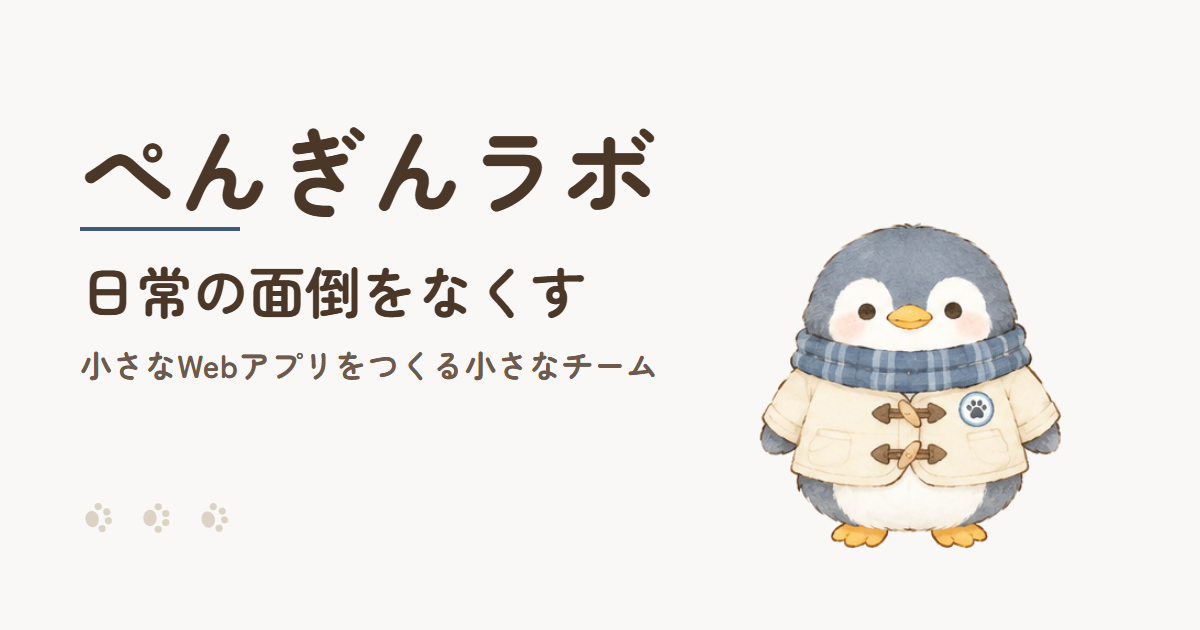
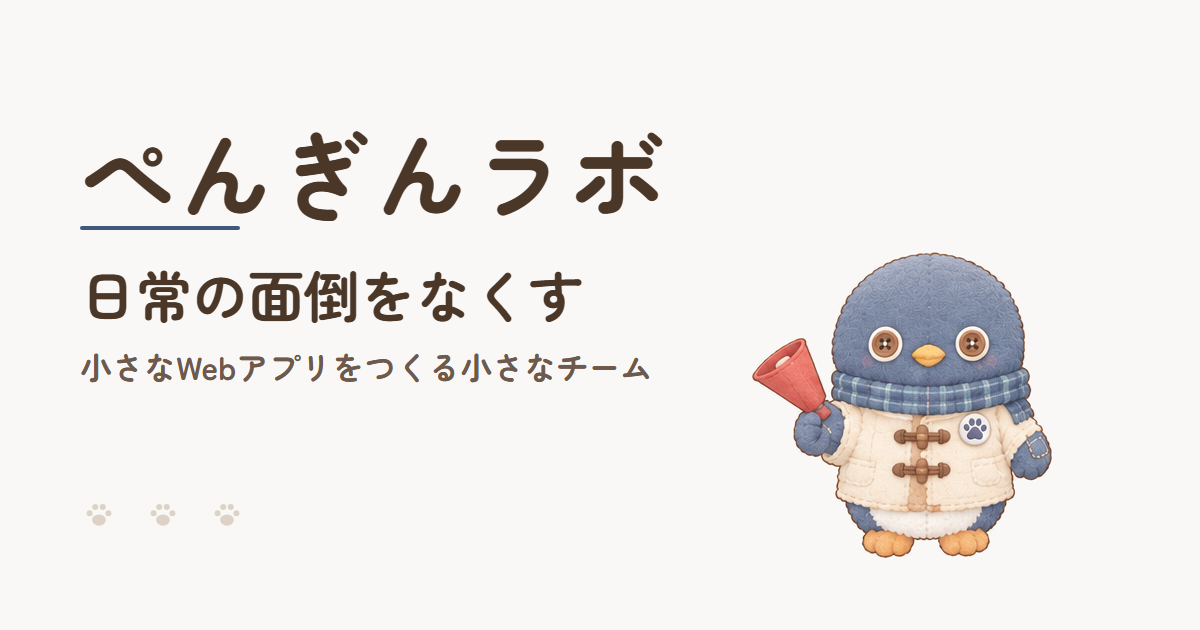
feat: OGP画像を v3 のペンタに差し替え、作成スクリプトを追加

diff --git a/scripts/make_ogp.py b/scripts/make_ogp.py
@@ -1,0 +1,93 @@
+"""OGP 画像（public/ogp.png, 1200x630）を作る。ローカルで手動実行する（CI では動かさない）。
+
+使い方:
+    python scripts/make_ogp.py <元画像のパス> public/ogp.png
+
+構図は docs/design/website-design.md 6章。左に文字、右にペンタ。
+ペンタは crop_members.py と同じ処理で元画像から切り出す（拡大しない）。
+HTML を一時フォルダに作り、ヘッドレスの Chrome / Edge でスクリーンショットを撮る。
+新しいパッケージは不要（Pillow と、入っているブラウザだけ）。
+"""
+import subprocess
+import sys
+import tempfile
+from pathlib import Path
+
+from PIL import Image
+
+sys.path.insert(0, str(Path(__file__).parent))
+import crop_members as cm  # noqa: E402
+
+ROOT = Path(__file__).resolve().parent.parent
+FONTS = ROOT / "node_modules/@fontsource/zen-maru-gothic/files"
+BROWSERS = [
+    r"C:\Program Files\Google\Chrome\Application\chrome.exe",
+    r"C:\Program Files (x86)\Microsoft\Edge\Application\msedge.exe",
+]
+W, H = 1200, 630
+MAX_BYTES = 300 * 1024
+
+HTML = """<!doctype html><meta charset="utf-8"><style>
+@font-face{font-family:Z;font-weight:700;src:url('%(f)s/zen-maru-gothic-japanese-700-normal.woff2')}
+@font-face{font-family:ZL;font-weight:700;src:url('%(f)s/zen-maru-gothic-latin-700-normal.woff2')}
+html,body{margin:0;width:1200px;height:630px;background:#f9f8f7;color:#4a3728;font-family:ZL,Z,sans-serif;font-weight:700;overflow:hidden}
+.t1{position:absolute;left:80px;top:112px;font-size:96px;line-height:120px;letter-spacing:.02em}
+.rule{position:absolute;left:80px;top:226px;width:160px;height:4px;background:#3f5a78;border-radius:2px}
+.t2{position:absolute;left:80px;top:258px;font-size:56px;line-height:72px}
+.t3{position:absolute;left:80px;top:344px;font-size:32px;line-height:44px;color:#6e5a4c}
+.paws{position:absolute;left:84px;top:500px;display:flex;gap:34px;color:#ddd3c4}
+img{position:absolute;right:%(r)dpx;bottom:%(b)dpx}
+</style>
+<div class="t1">ぺんぎんラボ</div><div class="rule"></div>
+<div class="t2">日常の面倒をなくす</div>
+<div class="t3">小さなWebアプリをつくる小さなチーム</div>
+<div class="paws">%(paws)s</div>
+<img src="%(img)s">
+"""
+PAW = ('<svg width="30" height="30" viewBox="0 0 24 24"><g fill="currentColor"><ellipse cx="12" cy="16" rx="5.5" ry="4.5"/>'
+       '<circle cx="4.5" cy="10.5" r="2.4"/><circle cx="9" cy="5.5" r="2.4"/><circle cx="15" cy="5.5" r="2.4"/>'
+       '<circle cx="19.5" cy="10.5" r="2.4"/></g></svg>')
+
+
+def crop_penta(sheet: Image.Image) -> Image.Image:
+    ref = cm.paper_color(sheet)
+    info = cm.locate(sheet, ref)["penta"]
+    card = cm.make_card(sheet, ref, info)
+    x0, y0, x1, y1 = info["bbox"]
+    # 400 角のカードから、キャラの範囲だけ（拡大なし）を取り出す
+    left = (cm.SIZE - (x1 - x0)) // 2
+    top = cm.SIZE - cm.FOOT_MARGIN - (y1 - y0)
+    return card.crop((left - 8, top - 8, left + (x1 - x0) + 8, top + (y1 - y0) + 8))
+
+
+def main() -> int:
+    if len(sys.argv) != 3:
+        print(__doc__)
+        return 2
+    sheet = Image.open(sys.argv[1]).convert("RGB")
+    penta = crop_penta(sheet)
+    browser = next((b for b in BROWSERS if Path(b).exists()), None)
+    if not browser:
+        print("Chrome / Edge が見つかりません")
+        return 1
+    with tempfile.TemporaryDirectory() as tmp:
+        tmp = Path(tmp)
+        penta.save(tmp / "penta.png")
+        html = HTML % {"f": (FONTS.as_uri()), "img": "penta.png", "r": 140, "b": 64, "paws": PAW * 3}
+        (tmp / "ogp.html").write_text(html, encoding="utf-8")
+        out = Path(sys.argv[2]).resolve()
+        subprocess.run([browser, "--headless", "--disable-gpu", "--hide-scrollbars",
+                        f"--window-size={W},{H}", f"--screenshot={out}", (tmp / "ogp.html").as_uri()],
+                       check=True, capture_output=True)
+    img = Image.open(sys.argv[2])
+    size = Path(sys.argv[2]).stat().st_size
+    print(f"ペンタ {penta.size}（元の大きさのまま） ogp {img.size} {size // 1024}KB")
+    if img.size != (W, H) or size > MAX_BYTES:
+        print("検証に失敗")
+        return 1
+    print("OK")
+    return 0
+
+
+if __name__ == "__main__":
+    sys.exit(main())
